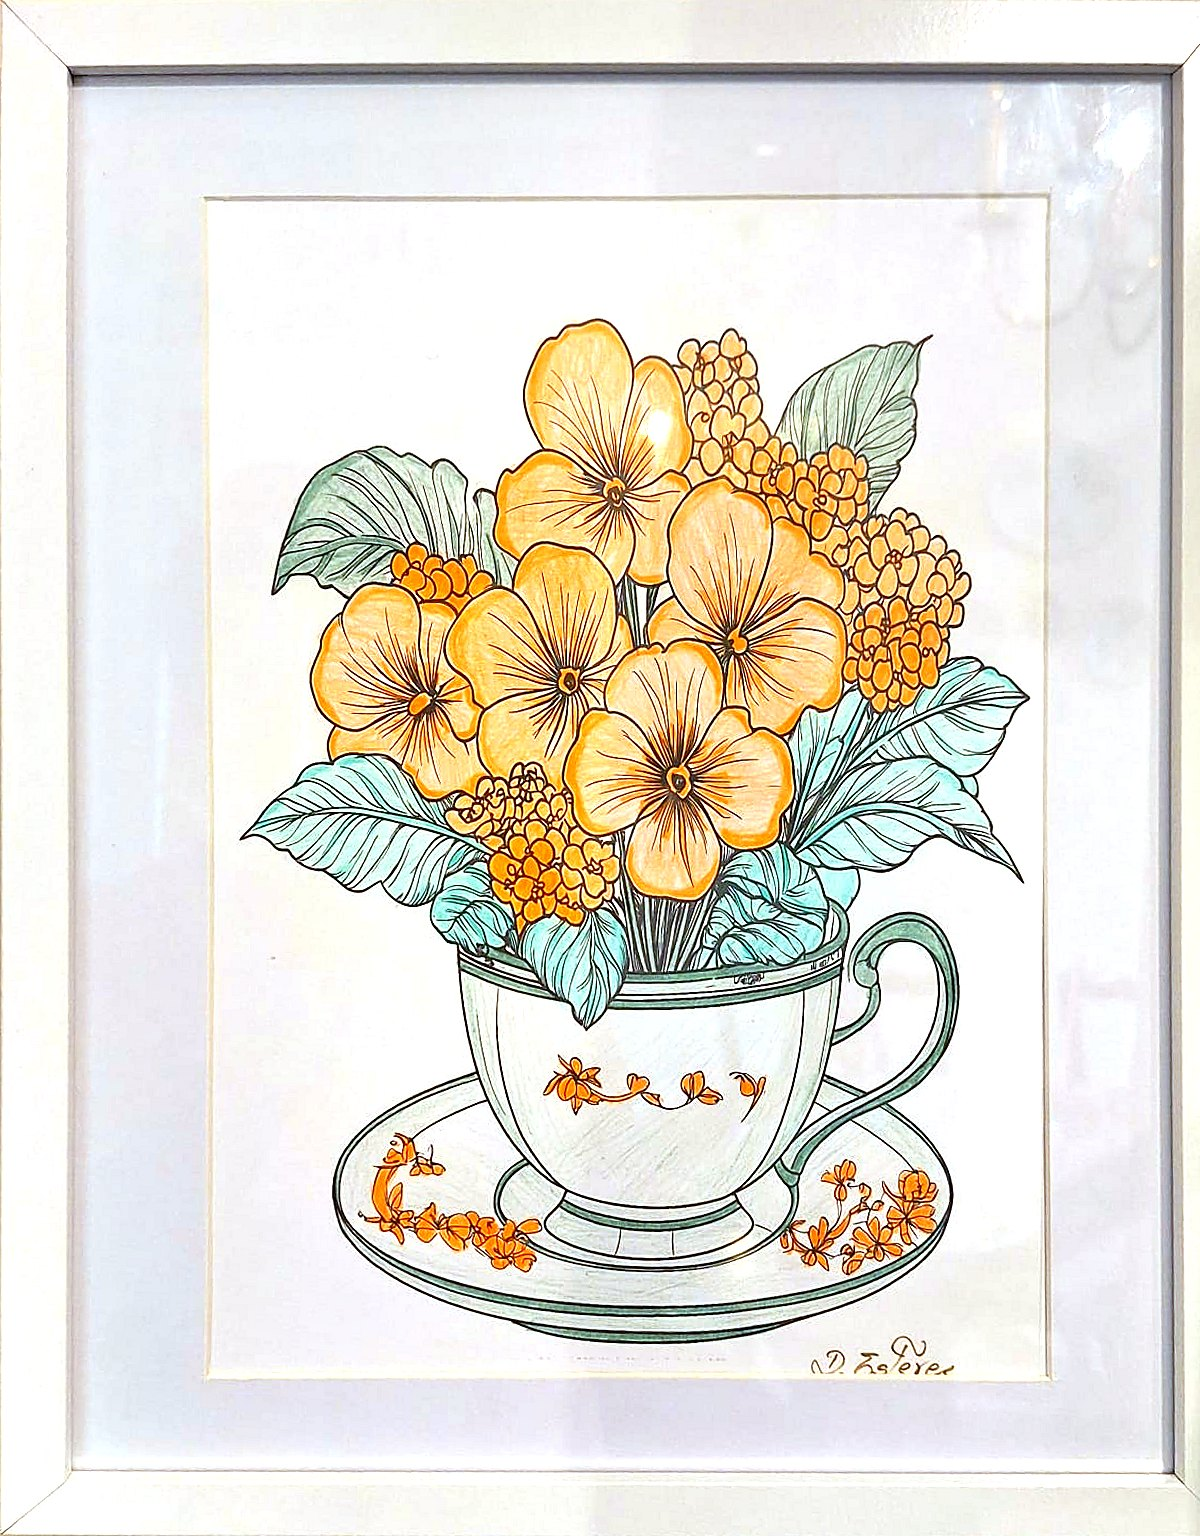
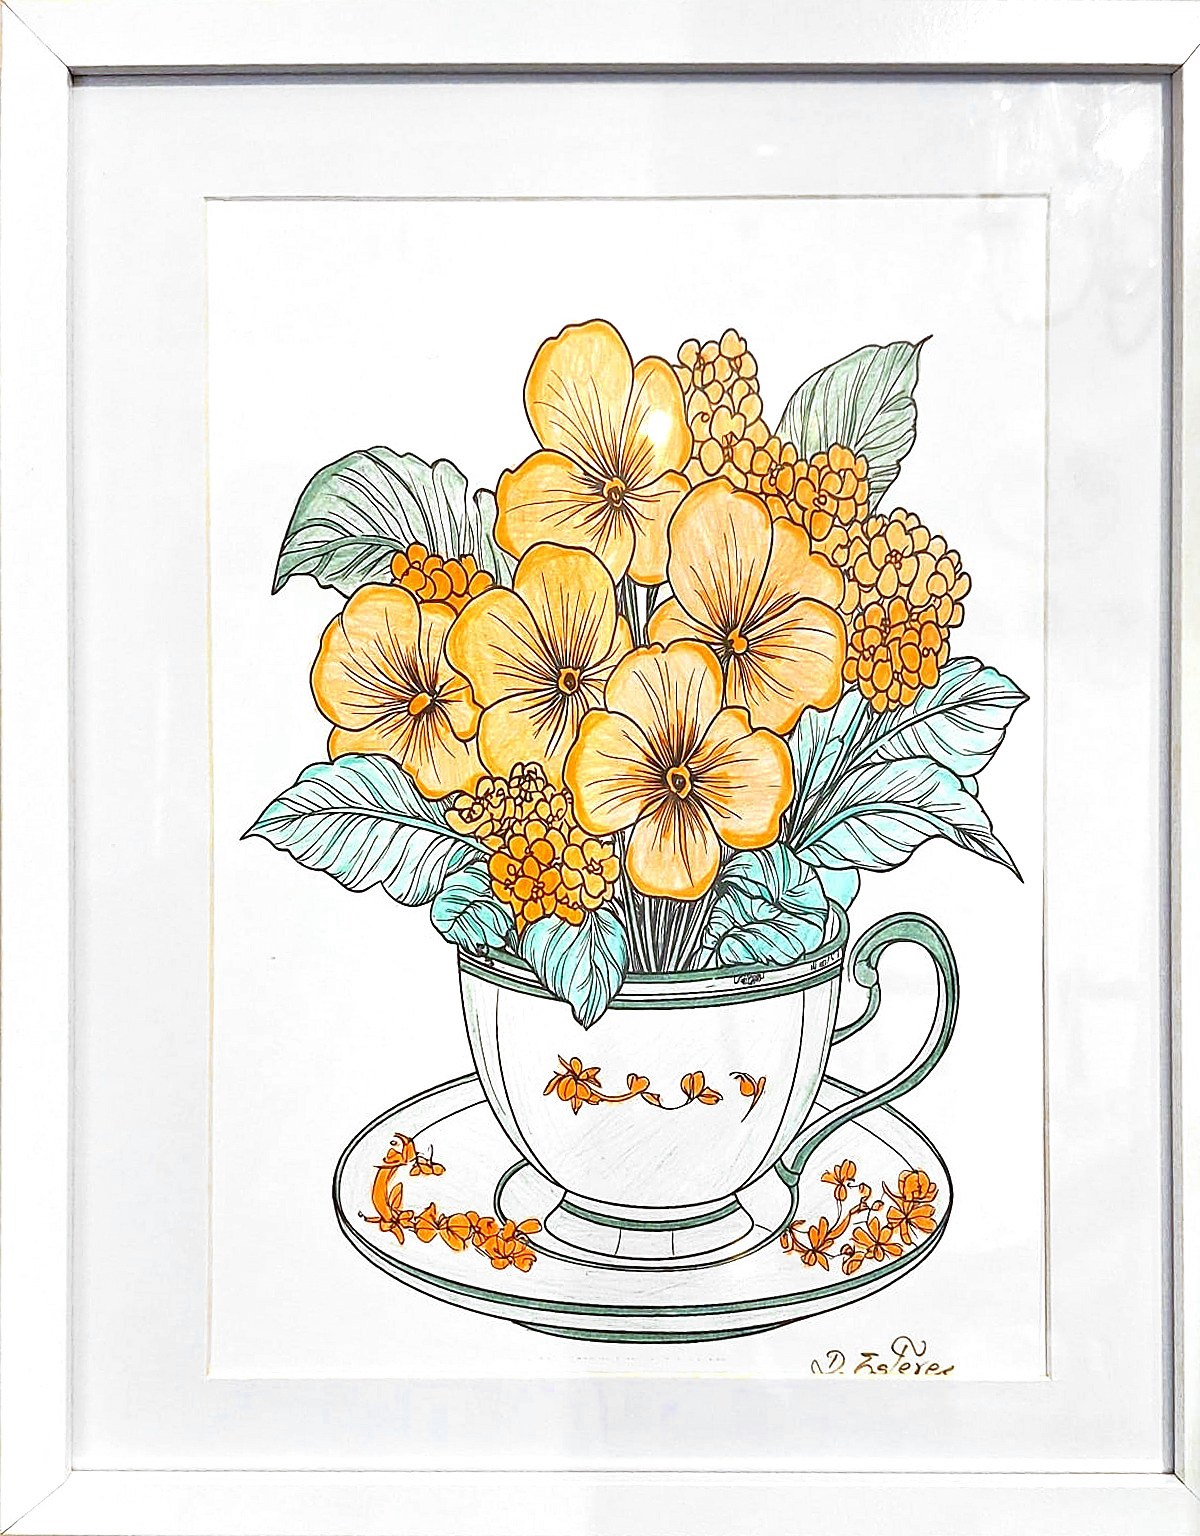
Show framed photos uncropped with clean white mats
Neutralise the grey/lilac cast on mats, paper and white frames while
leaving the drawing's colours untouched. Stop cropping framed photos to
4:5 and give the dialog close button its own background so it no longer
sits on top of the artwork on phones.

Claude-Session: https://claude.ai/code/session_01Poew82og3JwzYcgqMLHKqN

Changed region(s): [[0.0308, 0.25, 0.0617, 0.9062], [0.9558, 0.9062, 0.9867, 0.9375], [0.0308, 0.1875, 0.0617, 0.2188]]

diff --git a/index.html b/index.html
@@ -123,7 +123,7 @@ section { padding-block: 96px; }
 .badge { position: absolute; top: 18px; right: -8px; z-index: 2; background: var(--rose); color: #f6e9dc; padding: 8px 14px; font: 500 10px/1 var(--caps); letter-spacing: .22em; text-transform: uppercase; box-shadow: 0 4px 10px -4px rgba(0,0,0,.4); }
 /* Works photographed in their own frame: show the photo as-is, hung with a shadow */
 .photo { position: relative; transition: transform .4s ease, box-shadow .4s ease; box-shadow: 0 26px 40px -24px rgba(46, 38, 34, .7), 0 6px 12px -8px rgba(46, 38, 34, .35); }
-.photo img { width: 100%; aspect-ratio: 4 / 5; object-fit: cover; }
+.photo img { width: 100%; height: auto; }   /* never crop: the real frame must stay whole */
 .piece .open:hover .photo { transform: translateY(-6px); box-shadow: 0 36px 48px -26px rgba(46, 38, 34, .75), 0 8px 14px -8px rgba(46, 38, 34, .35); }
 .sheet .pic .photo { width: min(380px, 100%); }
 .soon .mat div { aspect-ratio: 3 / 4; width: 100%; display: grid; place-items: center; border: 1px solid var(--line); background: #f7f1e6; }
@@ -144,7 +144,7 @@ dialog::backdrop { background: rgba(46, 38, 34, .6); }
 .sheet .price { font: 400 34px/1 var(--display); }
 .sheet .actions { display: flex; flex-wrap: wrap; gap: 12px; }
 .sheet .small { font-size: 16px; color: var(--ink-3); font-style: italic; margin: 0; }
-.x { position: absolute; top: 24px; right: 24px; width: 42px; height: 42px; border: 0; background: none; cursor: pointer; display: grid; place-items: center; color: var(--ink); z-index: 2; }
+.x { position: absolute; top: 20px; right: 20px; width: 44px; height: 44px; border: 1px solid var(--line); border-radius: 50%; background: var(--paper); box-shadow: 0 4px 12px -4px rgba(46,38,34,.35); cursor: pointer; display: grid; place-items: center; color: var(--ink); z-index: 2; }
 .x svg { width: 22px; height: 22px; }
 
 /* About */
@@ -195,7 +195,8 @@ footer .ornament { color: var(--gold); margin-block: 18px 30px; }
   .grid { grid-template-columns: repeat(2, minmax(0, 1fr)); gap: 56px 28px; }
   .steps { grid-template-columns: 1fr; gap: 44px; }
   .sheet { grid-template-columns: 1fr; }
-  .sheet .pic { padding: 44px 32px; }
+  .sheet .pic { padding: 76px 24px 36px; }
+  .sheet .pic .photo { width: min(420px, 100%); }
   .sheet .txt { padding: 32px 28px 40px; }
   .about .txt { text-align: center; }
   .bio p { margin-inline: auto; text-align: left; }
